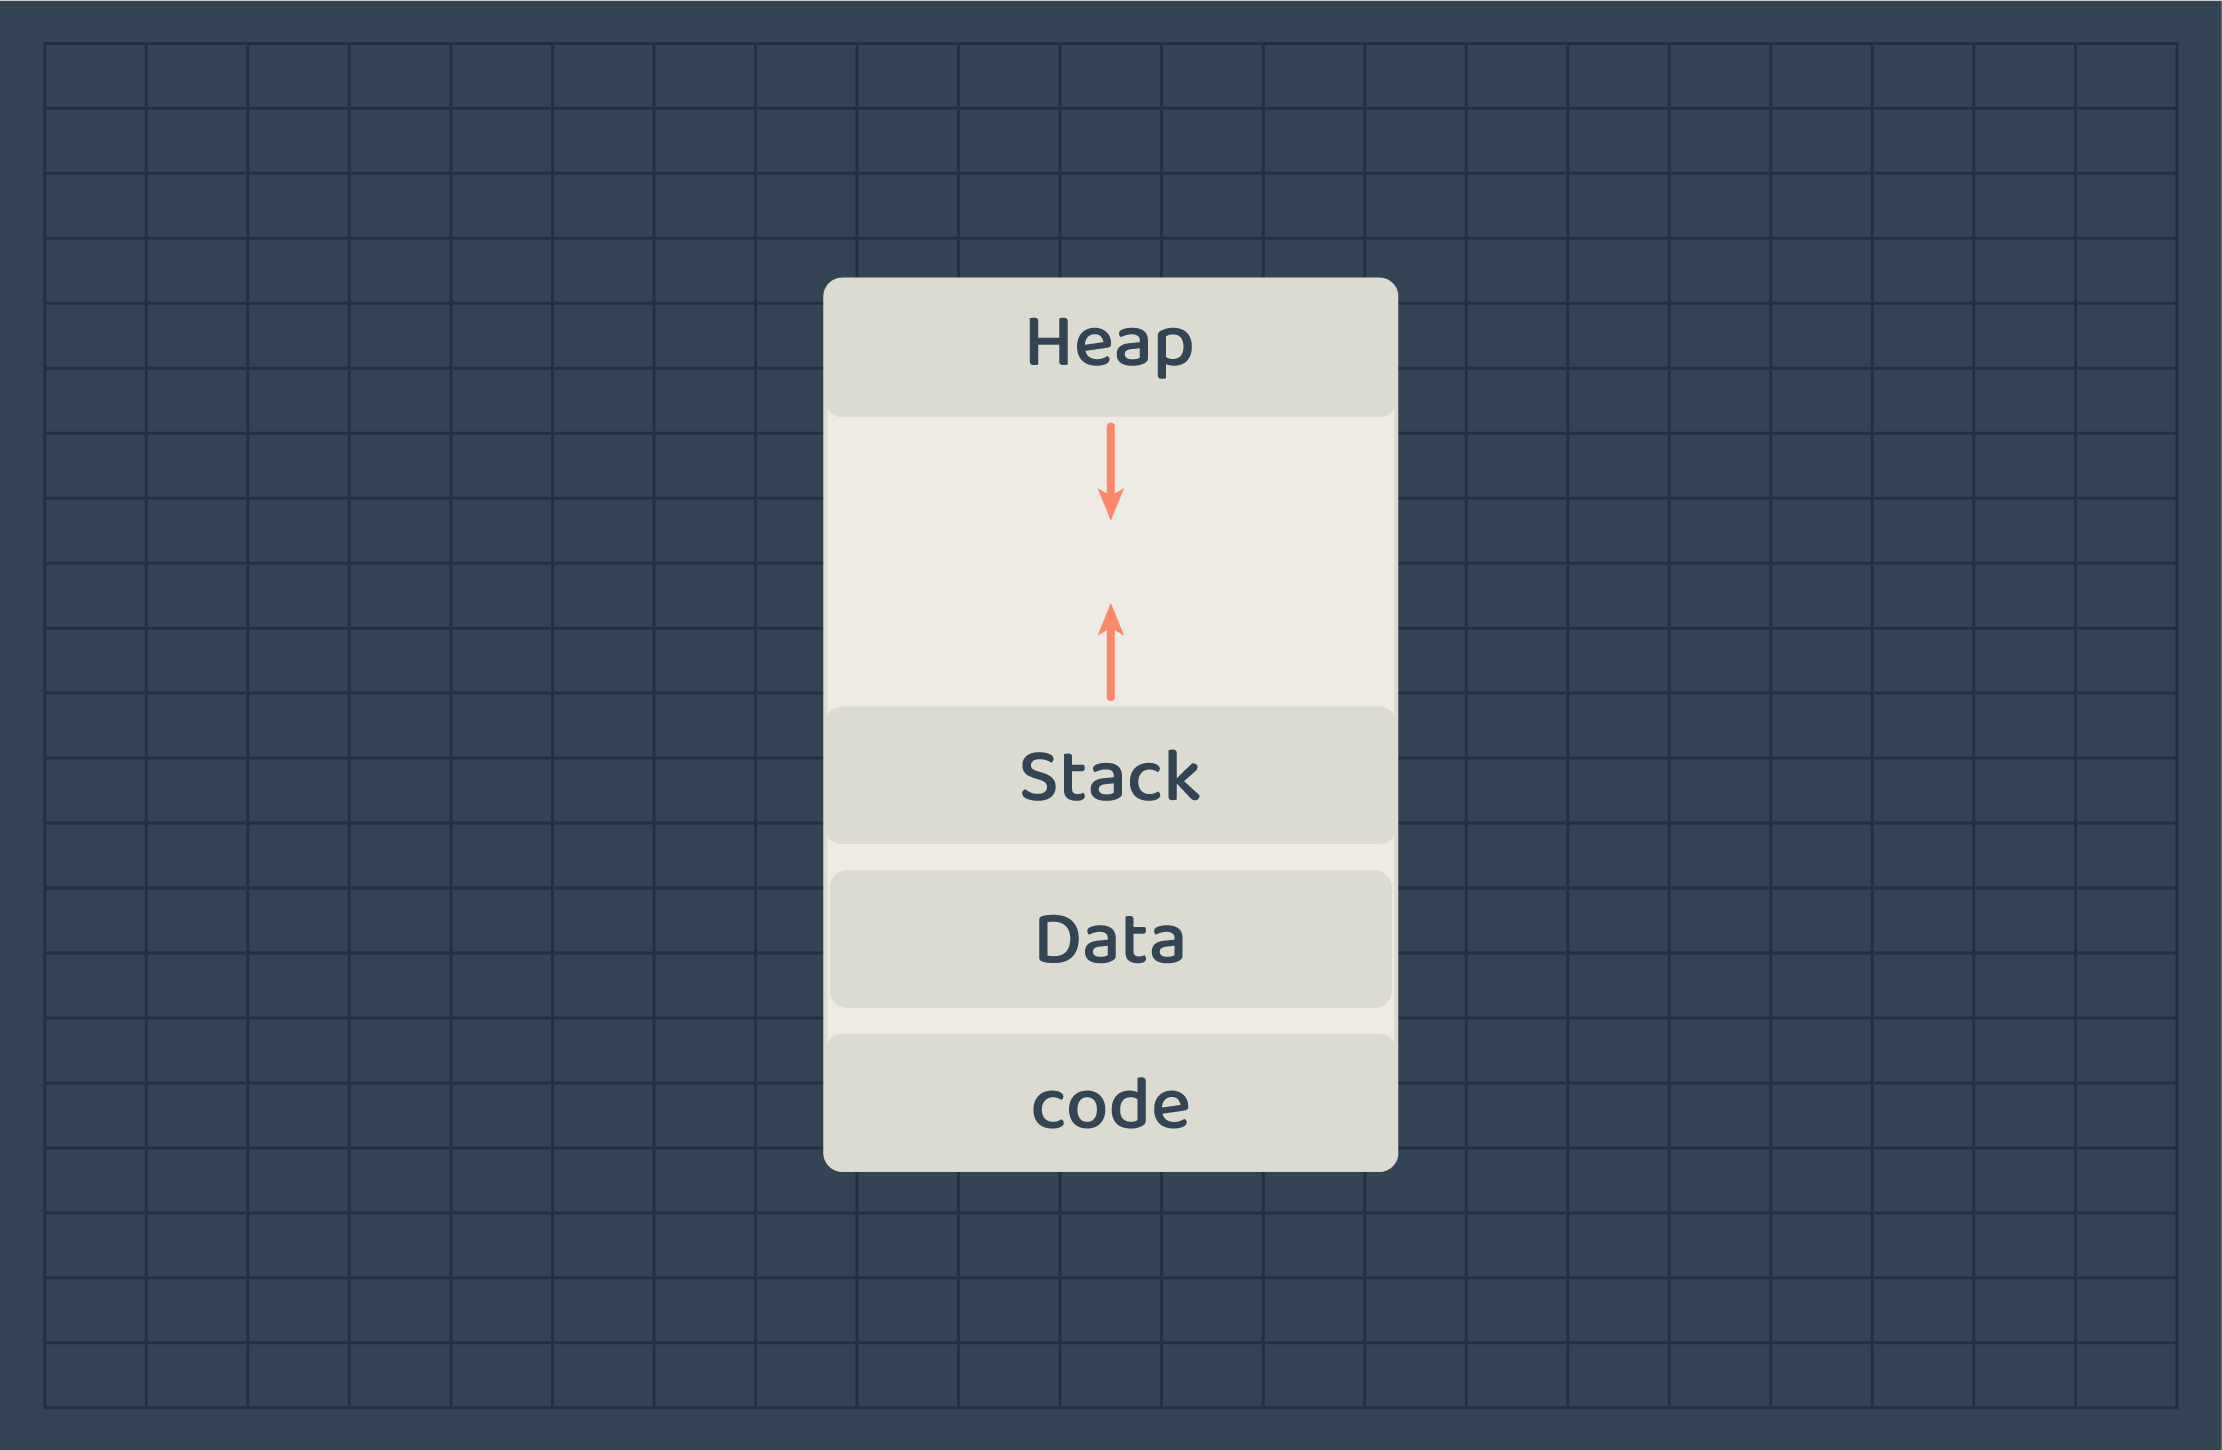
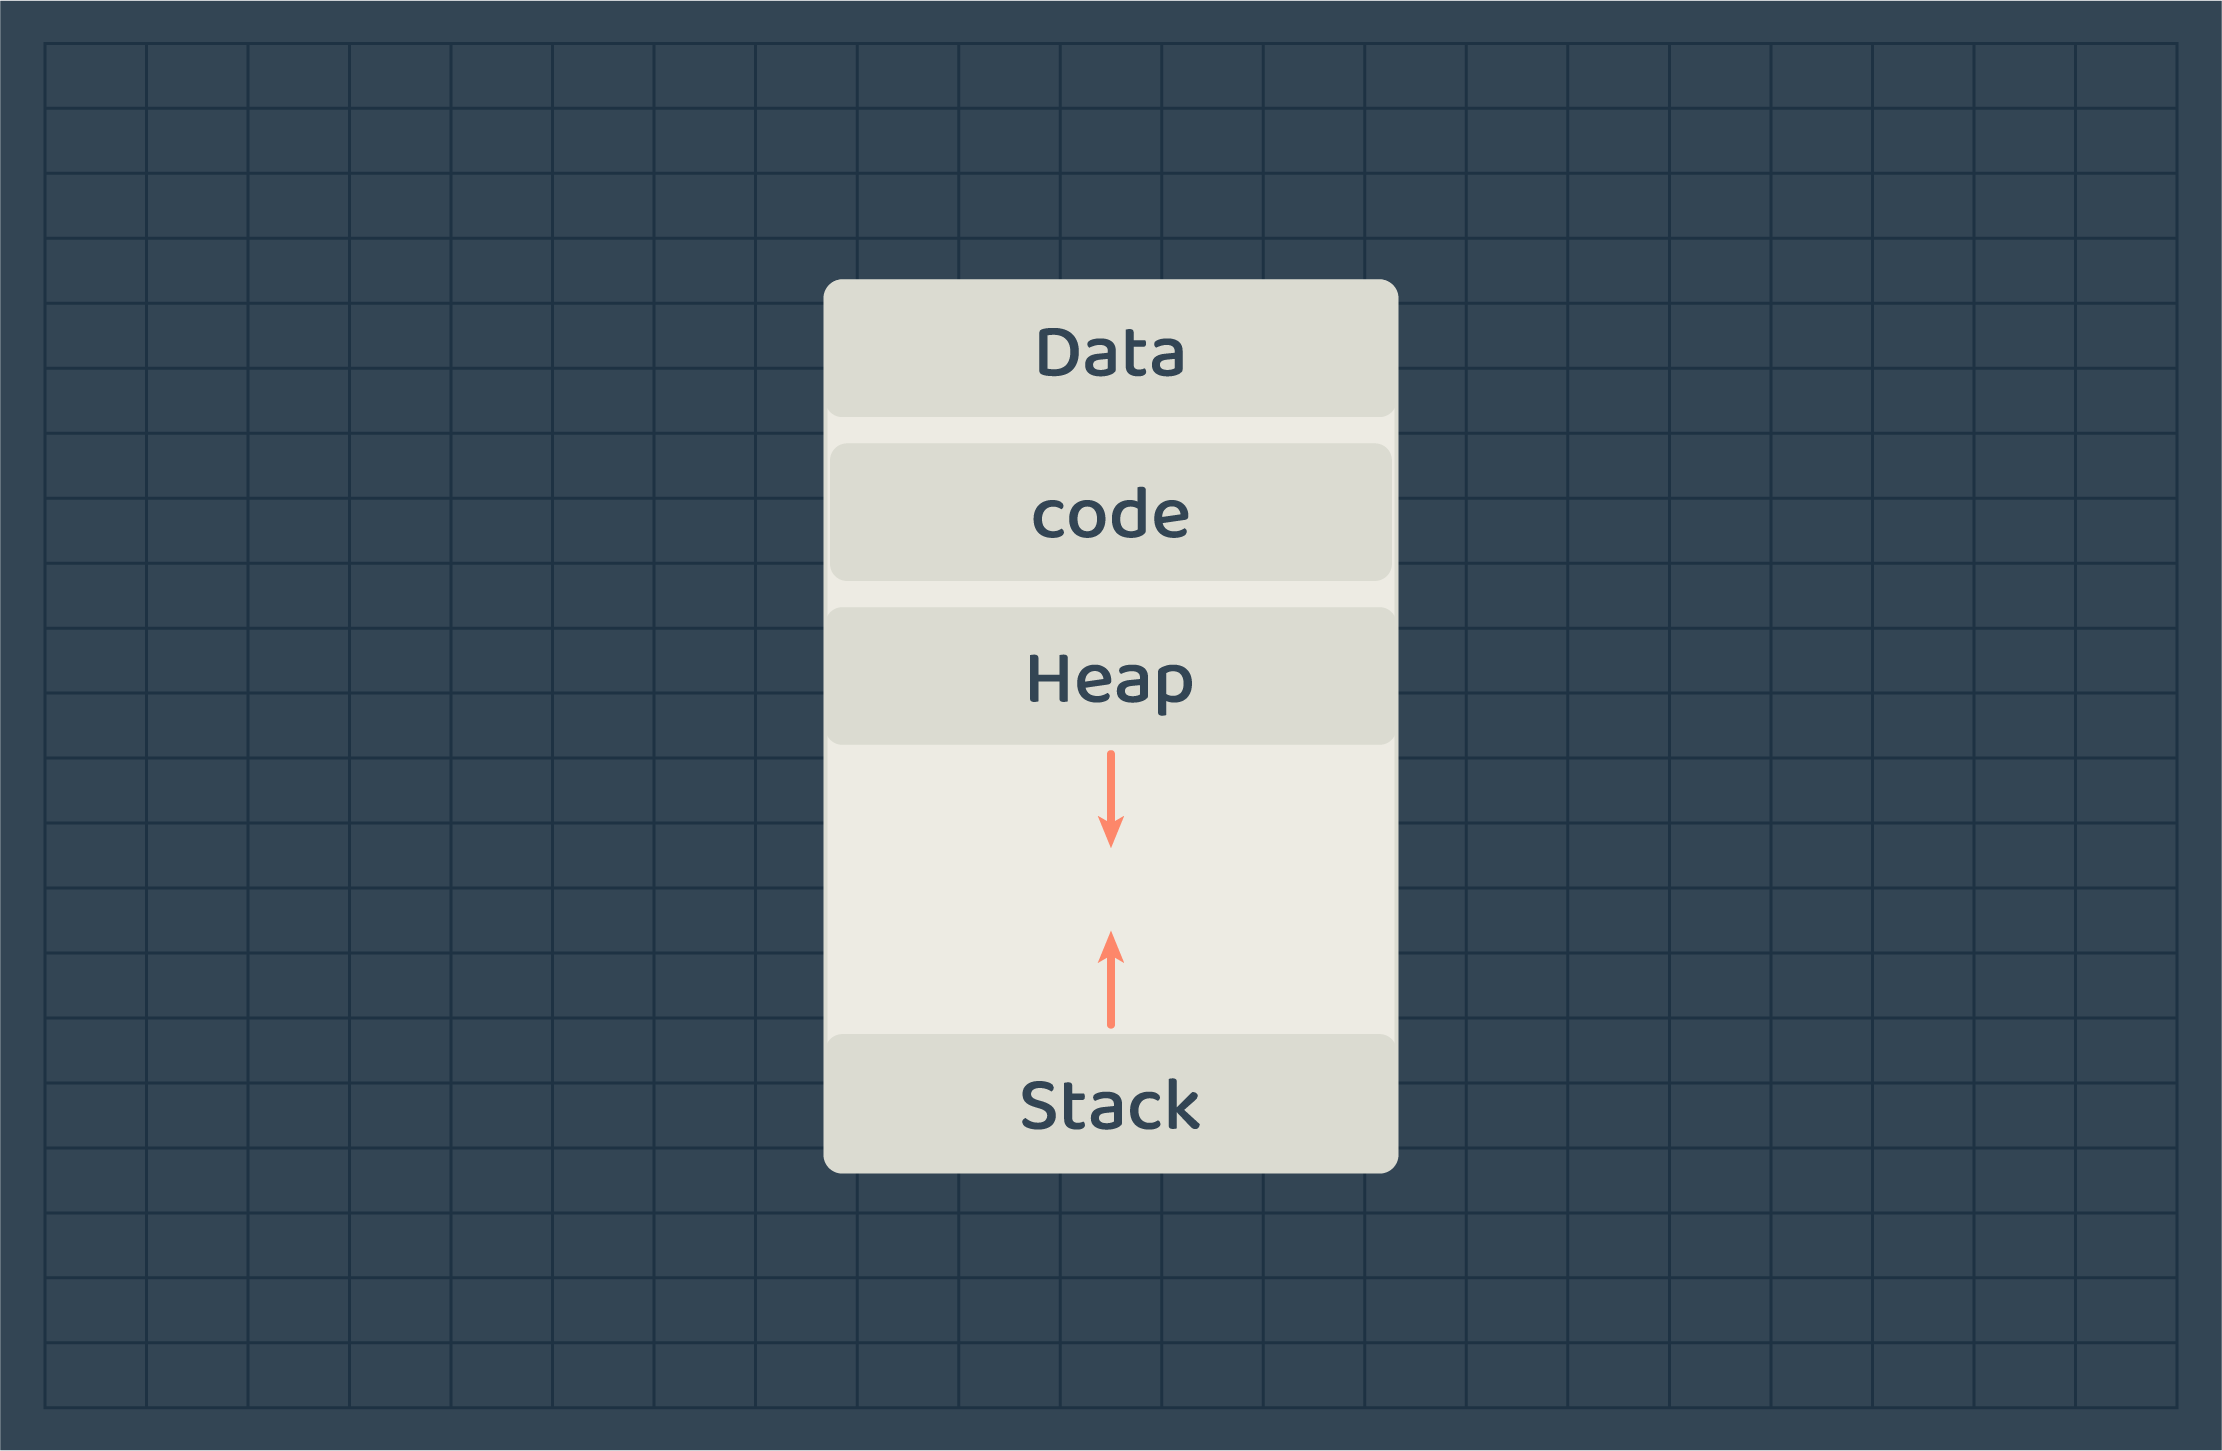
Memory content & image update added

diff --git a/03.Memory-management/01.Memory-Manamgement-Intro.md b/03.Memory-management/01.Memory-Manamgement-Intro.md
@@ -3,28 +3,31 @@
 
 Computers are used to process data, and these data does not come from thin air. It is stored in a special component of the computer which is the **Memory**. 
 
-Memories comes in different sizes and types. There are what we call Random Access Memory (RAM) which stores data temporarily and Read Only Memory (ROM) which stores data permanently. 
+Memories comes in different sizes and types. There are what we call Random Access Memory **RAM** which stores data temporarily and Read Only Memory **ROM** which stores data permanently. 
 
 > Note: The CPU also has a small memory that stores some data it needs for the processing. These are called registers.
 
-![Memory Structure](./images/02.memory-structure2.png)
+![Computer Memories](./images/01-computer-memories.png)
 
 ## Memory Types and Usage
 
 ### Random Access Memory
 RAM aka. **Main Memory** is the memory that the CPU access directly. It is faster than ROM but smaller in size.
 
-Operating system uses main memory to store/load programs into it as processes for the CPU to execute. Once it is loaded and ready for execution, the CPU will read the process data from main memory directly and execute it. In another word, Main memory is used to store data that you are currently working on.
+Operating system uses main memory to store/load programs into it as processes for the CPU to execute. Once it is loaded and ready for execution, the CPU will read the process data from main memory directly and execute it. In another word, main memory is used to store data that you are currently working on.
 
-![Memory Structure](./images/03.cpu-main-memory.png)
+![CPU and Main Memory Communication](./images/02.cpu-and-memory.png)
 
 Once the process finish its execution, the Operating System will free the space for another process.
 
 One more thing to note, is that main memory is volatile. Which means once we shut down the computer or cut the power from the memory all data in it will be lost.
 
-#### How Main memory looks like
-Main memory is a sequence of spaces and addresses that refers to each space.
-![Main Memory](./images/04.main-memory.png)
+#### How Main Memory Looks Like
+Main memory is a large array of bytes with an address that refers to each entry.
+![Main Memory](./images/03.main-memory.png)
+
+
+> Note: in this chapter, we will focus on main memory management.
 
 ### Read Only Memory
 ROM is used to store permanent data that we don't want to loose when cutting of the power or shutting down the computer. Hence, it is non-volatile storage. 
@@ -33,3 +36,10 @@ ROM is used to store permanent data that we don't want to loose when cutting of 
 In a case you updated a file but did not save the new update to it. What do you think will happen if your computer power when off suddenly?
 
 The answer is your update won't be saved in the file since it is stored in main memory which is volatile. But in case you hit the save button before power turned off the update will be stored permanently in the ROM and won't be lost. 
+
+
+## Operating System and Memory Management
+OS is responsible to manage hardware resources, which main memory is part of. OS insures the following in relation to memory. 
+- Allocate and deallocate memory spaces as required. 
+- Keep track of each memory block usage and by which process.
+- Determine which parts of memory blocks should move in or out of the memory. 
